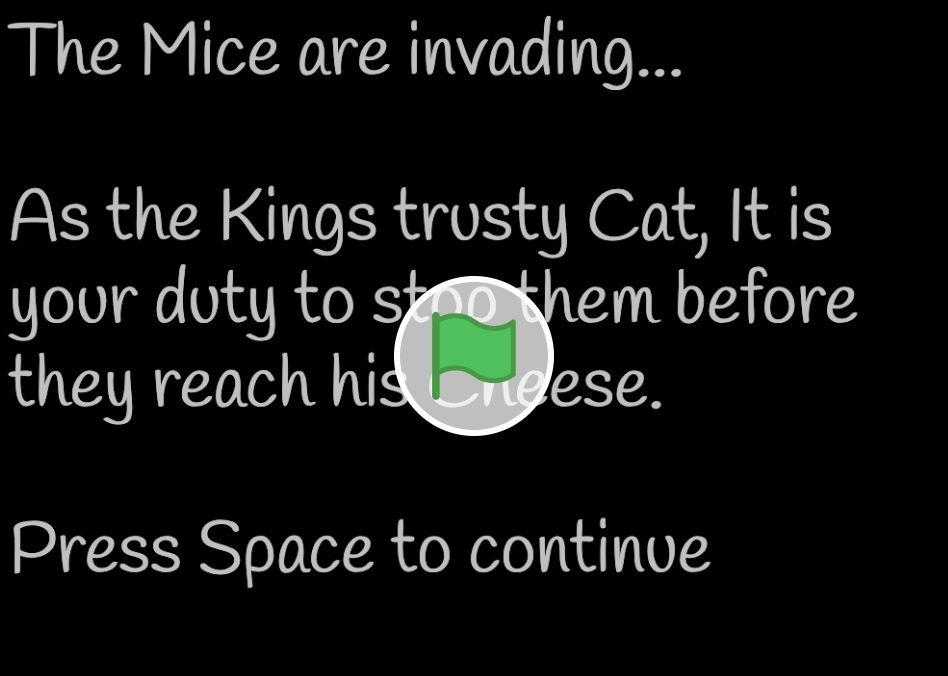
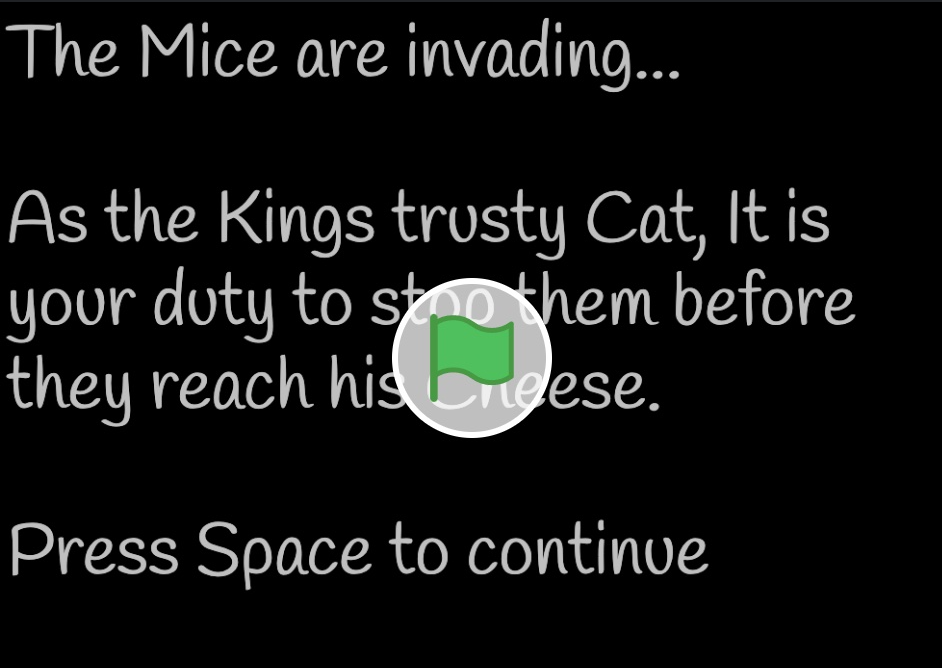
added fonts to website

Changed region(s): [[0.0, 0.2695, 0.9236, 0.6587], [0.0, 0.7485, 0.7696, 0.8982], [0.0, 0.0, 0.7389, 0.1497]]

diff --git a/portfolio.html b/portfolio.html
@@ -16,6 +16,13 @@
         <!--my css-->
         <link type="text/css" rel="stylesheet" href="./assets/css/style.css">
         
+        <!--google fonts-->
+        <link rel="preconnect" href="https://fonts.gstatic.com">
+        <link href="https://fonts.googleapis.com/css2?family=Ubuntu&display=swap" rel="stylesheet">
+
+        <link rel="preconnect" href="https://fonts.gstatic.com">
+        <link href="https://fonts.googleapis.com/css2?family=Lobster&display=swap" rel="stylesheet">
+
     </head>
     
     <body>
@@ -58,7 +65,7 @@
             <!--header for portfolio-->
             <header class="row header-background">
 
-                <h1 class="col-sm-9 header">
+                <h1 class="col-sm-9 header text-center display-3">
                     Portfolio
                 </h1>   
 
@@ -75,11 +82,11 @@
 
                         <img src="assets/pics/scratch game.png" class="card-img-top" alt="screenshot of scratch cat game">
 
-                        <div class="card-body bg-info text-dark bg-gradient">
+                        <div class="card-body bg-secondary text-light bg-gradient">
 
-                            <h5 class="card-title">Cat & Mouse Game on Scratch</h5>
+                            <h5 class="card-title text-center">Cat & Mouse Game on Scratch</h5>
 
-                            <p class="card-text">This was my first game created on Scratch. It also marked the first time
+                            <p class="card-text ubuntu text-center">This was my first game created on Scratch. It also marked the first time
                                 I was was introduced to what computer programing was all about!
                             </p>
 
@@ -94,11 +101,11 @@
                         
                         <img src="assets/pics/horiseon.png" class="card-img-top" alt="screenshot of Horiseon webpage">
 
-                        <div class="card-body bg-info text-dark bg-gradient">
+                        <div class="card-body bg-secondary text-light bg-gradient">
 
-                            <h5 class="card-title">Horiseon code refactor</h5>
+                            <h5 class="card-title text-center">Horiseon code refactor</h5>
 
-                            <p class="card-text">This was my first code refactor. I was tasked with refactoring 
+                            <p class="card-text ubuntu text-center">This was my first code refactor. I was tasked with refactoring 
                                 Horiseon's website's code so that it mets accessibility standards.</p>
                         </div>
 
@@ -111,11 +118,11 @@
 
                         <img src="assets/pics/titus-holiday-2.jpg" class="card-img-top" alt="...">
 
-                        <div class="card-body bg-info text-dark bg-gradient">
+                        <div class="card-body bg-secondary text-light bg-gradient">
 
-                            <h5 class="card-title">Placeholder</h5>
+                            <h5 class="card-title text-center">Placeholder</h5>
 
-                            <p class="card-text">Will fill throughout the class as I make more projects.</p>
+                            <p class="card-text ubuntu text-center">Will fill throughout the class as I make more projects.</p>
 
                         </div>
 
@@ -128,11 +135,11 @@
 
                         <img src="assets/pics/titus-holiday-2.jpg" class="card-img-top" alt="...">
 
-                        <div class="card-body bg-info text-dark bg-gradient">
+                        <div class="card-body bg-secondary text-light bg-gradient">
 
-                            <h5 class="card-title">Placeholder</h5>
+                            <h5 class="card-title text-center">Placeholder</h5>
 
-                            <p class="card-text">Will fill throughout the class as I make more projects.</p>
+                            <p class="card-text ubuntu text-center">Will fill throughout the class as I make more projects.</p>
 
                         </div>
 

diff --git a/index.html b/index.html
@@ -15,6 +15,14 @@
 
         <!--my css-->
         <link type="text/css" rel="stylesheet" href="./assets/css/style.css">
+
+        <!--google fonts-->
+        <link rel="preconnect" href="https://fonts.gstatic.com">
+        <link href="https://fonts.googleapis.com/css2?family=Ubuntu&display=swap" rel="stylesheet">
+
+        <link rel="preconnect" href="https://fonts.gstatic.com">
+        <link href="https://fonts.googleapis.com/css2?family=Lobster&display=swap" rel="stylesheet">
+
         
     </head>
     
@@ -57,7 +65,7 @@
 
             <!--header for about page-->
             <header class="row header-background">
-                <h1 class="col-sm-9 header">
+                <h1 class="col-sm-9 header text-center display-3">
                     Israel Molestina
                 </h1>   
             </header>
@@ -77,7 +85,7 @@
                             </figure>
                             
                             <article>
-                                <p>Contrary to popular belief, Lorem Ipsum is not simply random text. It has roots in a piece 
+                                <p class="ubuntu">Contrary to popular belief, Lorem Ipsum is not simply random text. It has roots in a piece 
                                     of classical Latin literature from 45 BC, making it over 2000 years old. Richard McClintock, 
                                     a Latin professor at Hampden-Sydney College in Virginia, looked up one of the more obscure 
                                     Latin words, consectetur, from a Lorem Ipsum passage, and going through the cites of the word 
@@ -109,7 +117,7 @@
                             </figure>
 
                             <article>
-                                <p>Contrary to popular belief, Lorem Ipsum is not simply random text. It has roots in a piece 
+                                <p class="ubuntu">Contrary to popular belief, Lorem Ipsum is not simply random text. It has roots in a piece 
                                     of classical Latin literature from 45 BC, making it over 2000 years old. Richard McClintock, 
                                     a Latin professor at Hampden-Sydney College in Virginia, looked up one of the more obscure 
                                     Latin words, consectetur, from a Lorem Ipsum passage, and going through the cites of the word 

diff --git a/contact.html b/contact.html
@@ -15,6 +15,13 @@
 
         <!--my css-->
         <link type="text/css" rel="stylesheet" href="./assets/css/style.css">
+
+        <!--google fonts-->
+        <link rel="preconnect" href="https://fonts.gstatic.com">
+        <link href="https://fonts.googleapis.com/css2?family=Ubuntu&display=swap" rel="stylesheet">
+
+        <link rel="preconnect" href="https://fonts.gstatic.com">
+        <link href="https://fonts.googleapis.com/css2?family=Lobster&display=swap" rel="stylesheet">
         
     </head>
     
@@ -57,7 +64,7 @@
             
             <!--header for about page-->
             <header class="row header-background">
-                <h1 class="col-sm-9 header">
+                <h1 class="col-sm-9 header text-center display-3">
                     Contact
                 </h1>   
             </header>

diff --git a/assets/css/style.css b/assets/css/style.css
@@ -34,14 +34,14 @@ body {
             rgba(0, 0, 0, 0.4)
         ),
         url(../pics/header-background.jpg);
-    padding-top: 30px;
-    padding-bottom: 30px;
+    padding-top: 25px;
+    padding-bottom: 20px;
 }
 
 /*sets parameters for header title*/
 .header {
-    text-align: center;
     color: whitesmoke;
+    font-family: 'Lobster', cursive;
 }
 
 /*sets color for links on portfolio page*/
@@ -63,4 +63,9 @@ body {
 #navflex {
     justify-content: flex-end;
 }
+
+.ubuntu {
+    font-family: 'Ubuntu', sans-serif;
+}
+
 
